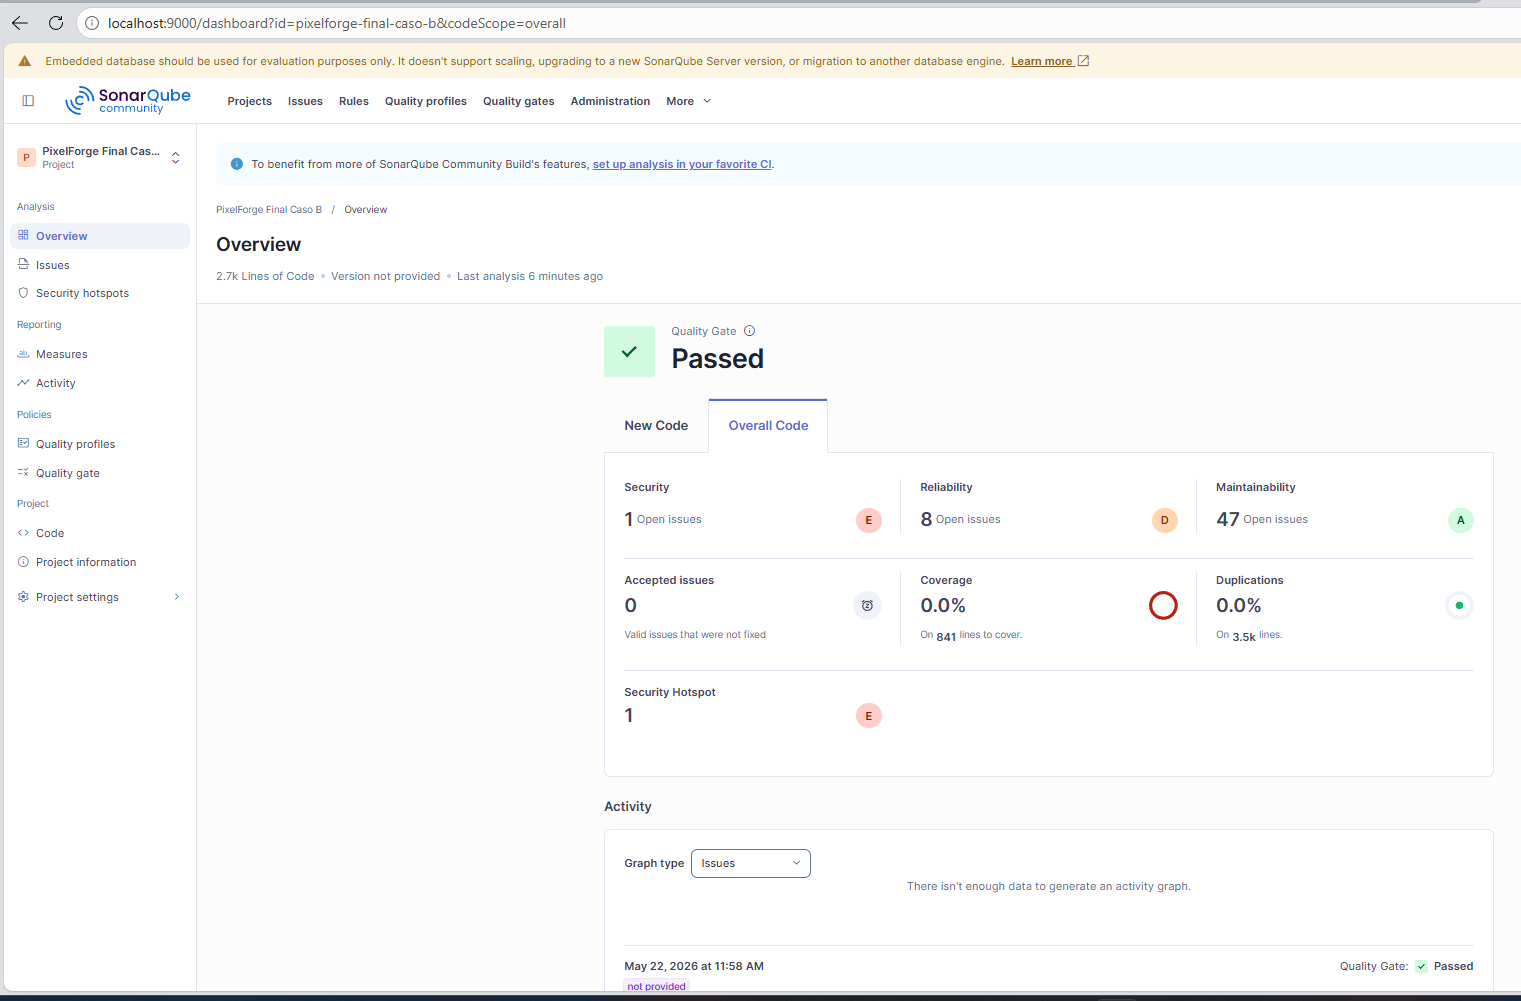
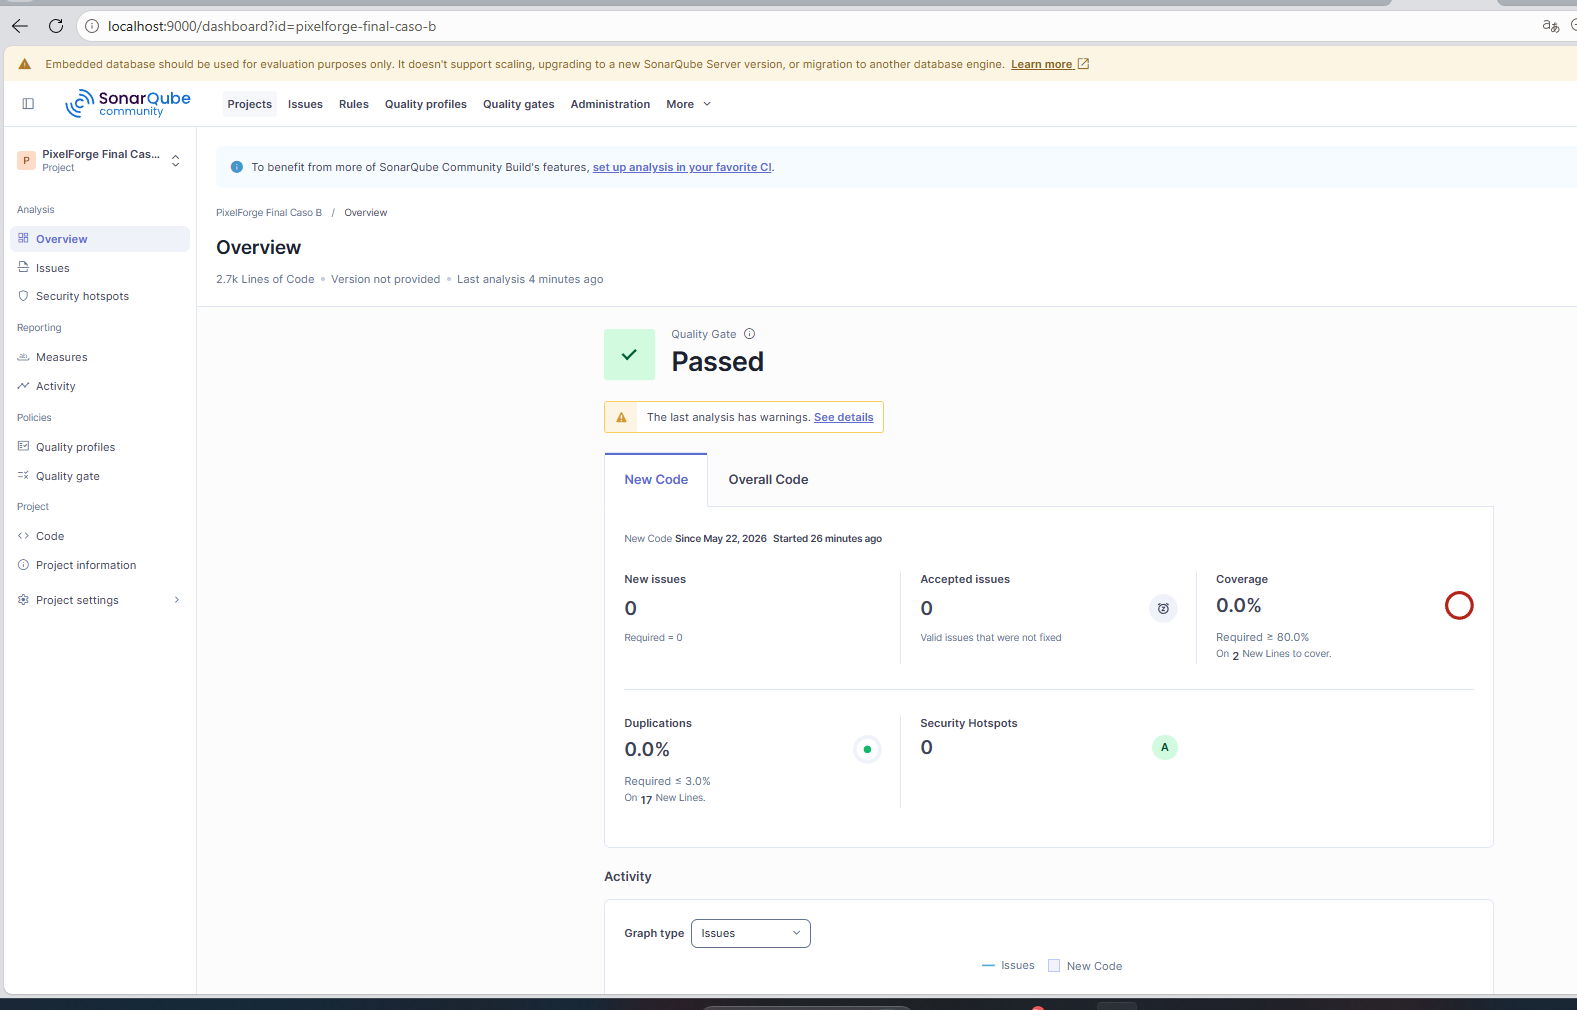
Corregir secreto detectado por SonarQube

diff --git a/backend/src/settings.py b/backend/src/settings.py
@@ -1,30 +1,35 @@
 """Configuración central del backend PixelForge Studio."""
 
-import os
 from functools import lru_cache
 from typing import List
 
 from dotenv import load_dotenv
-from pydantic_settings import BaseSettings
+from pydantic_settings import BaseSettings, SettingsConfigDict
 
 
 load_dotenv()
 
 
 class Settings(BaseSettings):
-    app_env: str = os.getenv("APP_ENV", "local")
+    """Variables de configuración cargadas desde entorno o archivo .env."""
 
-    jwt_secret_key: str = os.getenv("JWT_SECRET_KEY", "")
-    jwt_algorithm: str = os.getenv("JWT_ALGORITHM", "HS256")
-    jwt_expire_minutes: int = int(os.getenv("JWT_EXPIRE_MINUTES", "120"))
-
-    database_url: str = os.getenv(
-        "DATABASE_URL",
-        "postgresql://game_app:PixelForge_Final_DB_2026*@localhost:5433/pixelforge_final_db"
+    model_config = SettingsConfigDict(
+        env_file=".env",
+        env_file_encoding="utf-8",
+        extra="ignore",
     )
 
-    cors_allowed_origins: str = os.getenv(
-        "CORS_ALLOWED_ORIGINS",
+    app_env: str = "local"
+
+    jwt_secret_key: str = ""
+    jwt_algorithm: str = "HS256"
+    jwt_expire_minutes: int = 120
+
+    # No dejar URL con usuario/contraseña por defecto en el código.
+    # Debe venir desde backend/.env o variable de entorno DATABASE_URL.
+    database_url: str = ""
+
+    cors_allowed_origins: str = (
         "http://localhost:4200,http://127.0.0.1:4200"
     )
 
